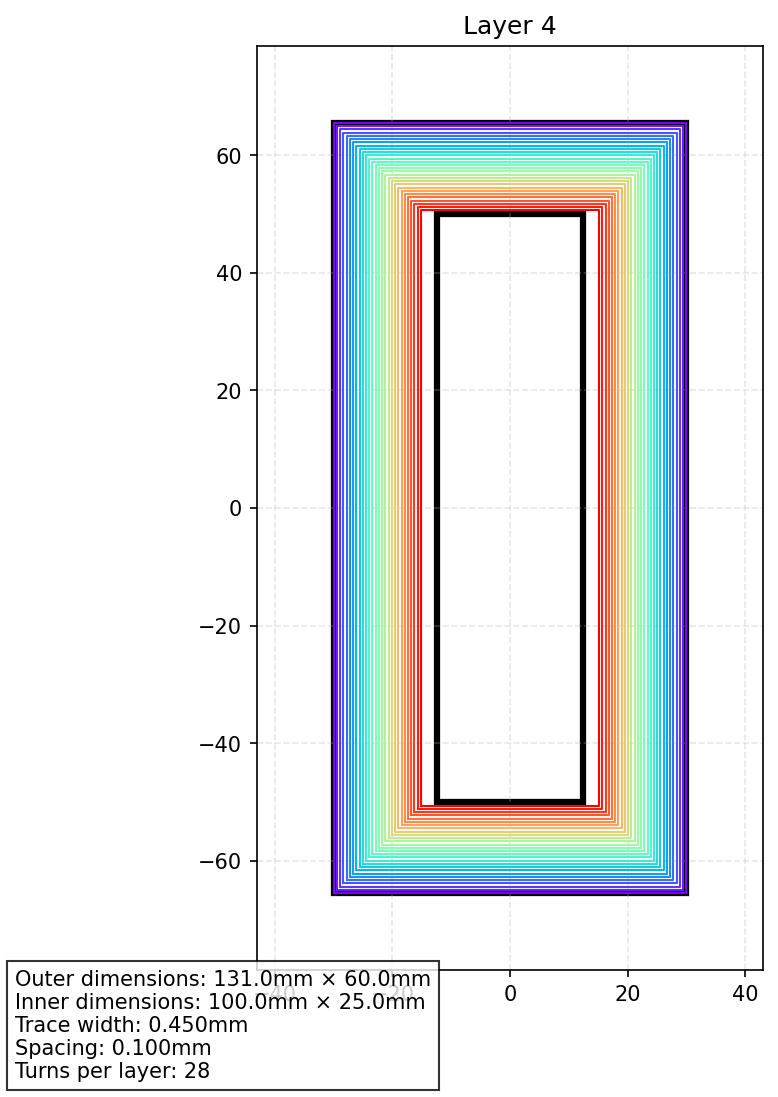
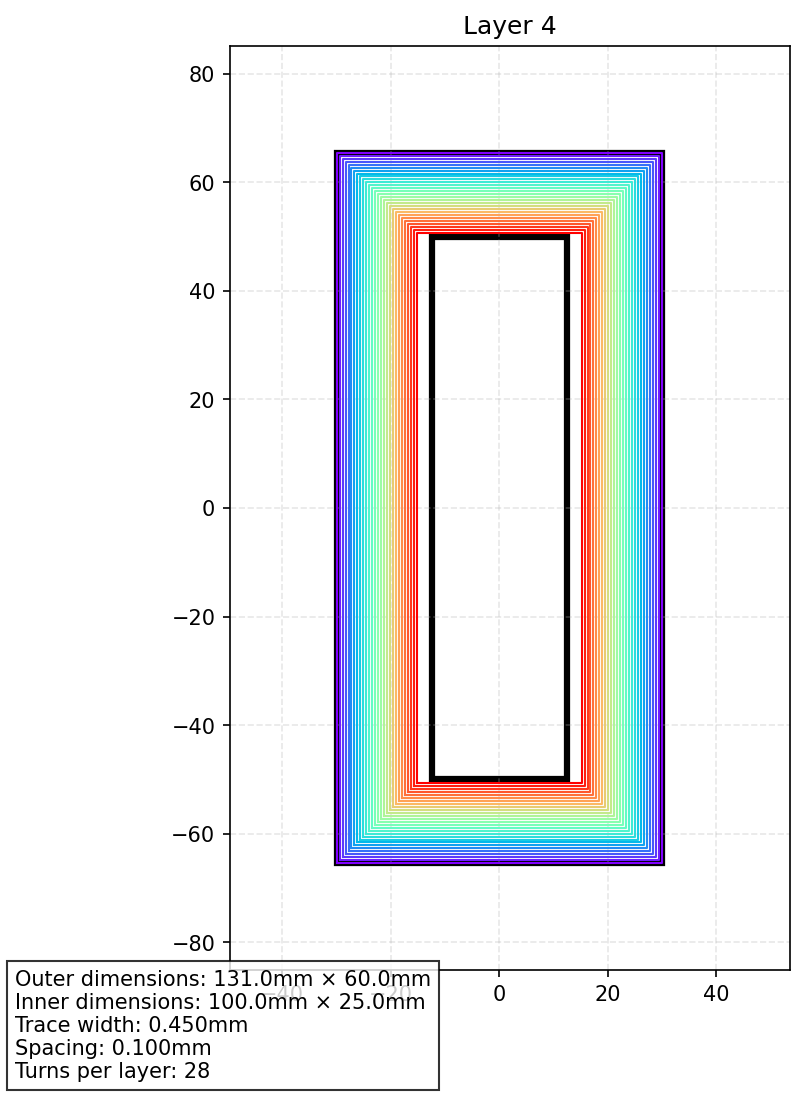
add molex

diff --git a/2d-sketch.py b/2d-sketch.py
@@ -74,16 +74,34 @@ def plot_layer(paths, params, layer_num, output_dir):
         for path, color in zip(paths, colors):
             ax.plot(path[0], path[1], '-', color=color, linewidth=1)
     else:
-        # H-bridge connection layer
-        pad_radius = min(params['outer_width'], params['outer_length']) * 0.1
-        ax.add_patch(plt.Circle((-params['outer_width']/4, -params['outer_length']/4), 
-                              pad_radius, color='red'))
-        ax.add_patch(plt.Circle((params['outer_width']/4, params['outer_length']/4), 
-                              pad_radius, color='red'))
-        ax.text(-params['outer_width']/4, -params['outer_length']/4, 'IN', 
-                ha='center', va='center', color='white')
-        ax.text(params['outer_width']/4, params['outer_length']/4, 'OUT', 
-                ha='center', va='center', color='white')
+        # Add Molex connector on the top layer
+        connector_width = 5.0  # mm
+        connector_length = 8.0  # mm
+        pin_radius = 0.6       # mm
+        pin_spacing = 2.54     # mm (standard 0.1" pitch)
+        
+        # Position connector just outside board edge
+        conn_x = params['outer_width']/2 + 0.2  # Just 0.2mm gap from board edge
+        conn_y = -params['outer_length']/2 + connector_length/2
+        
+        # Draw connector outline
+        connector = plt.Rectangle((conn_x, conn_y - connector_length/2),
+                                connector_width, connector_length,
+                                facecolor='lightgray', edgecolor='black', linewidth=1)
+        ax.add_patch(connector)
+        
+        # Add connector pins
+        pin_y_positions = [conn_y - pin_spacing/2, conn_y + pin_spacing/2]
+        pin_x = conn_x + connector_width/2  # Pins at center of connector
+        
+        for i, pin_y in enumerate(pin_y_positions):
+            pin = plt.Circle((pin_x, pin_y), pin_radius, 
+                           facecolor='gold', edgecolor='black', linewidth=0.5)
+            ax.add_patch(pin)
+            # Add I/O labels
+            label = 'I' if i == 0 else 'O'
+            ax.text(pin_x + 2*pin_radius, pin_y, label,
+                   ha='left', va='center', fontsize=8)
 
     # Board outlines with thicker black lines (3x original thickness)
     ax.add_patch(plt.Rectangle((-params['outer_width']/2, -params['outer_length']/2), 
@@ -95,8 +113,8 @@ def plot_layer(paths, params, layer_num, output_dir):
     
     # Set equal aspect ratio and limits
     ax.set_aspect('equal')
-    margin = max(params['outer_width'], params['outer_length']) * 0.1
-    ax.set_xlim(-params['outer_width']/2 - margin, params['outer_width']/2 + margin)
+    margin = max(params['outer_width'], params['outer_length']) * 0.15
+    ax.set_xlim(-params['outer_width']/2 - margin, params['outer_width']/2 + margin*1.2)
     ax.set_ylim(-params['outer_length']/2 - margin, params['outer_length']/2 + margin)
     
     # Add title and grid
